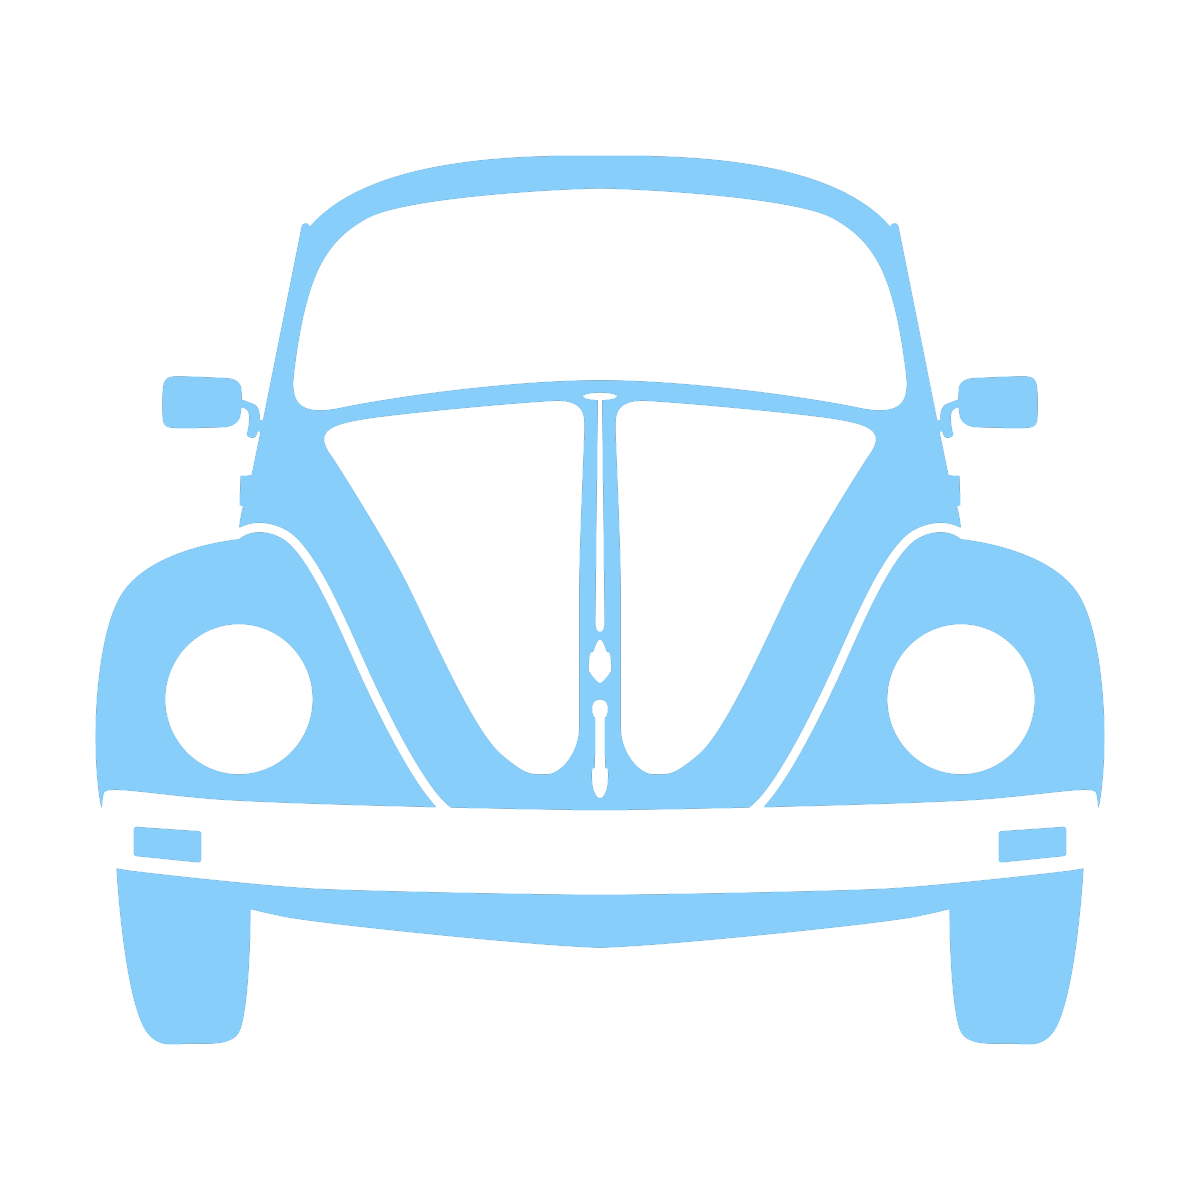
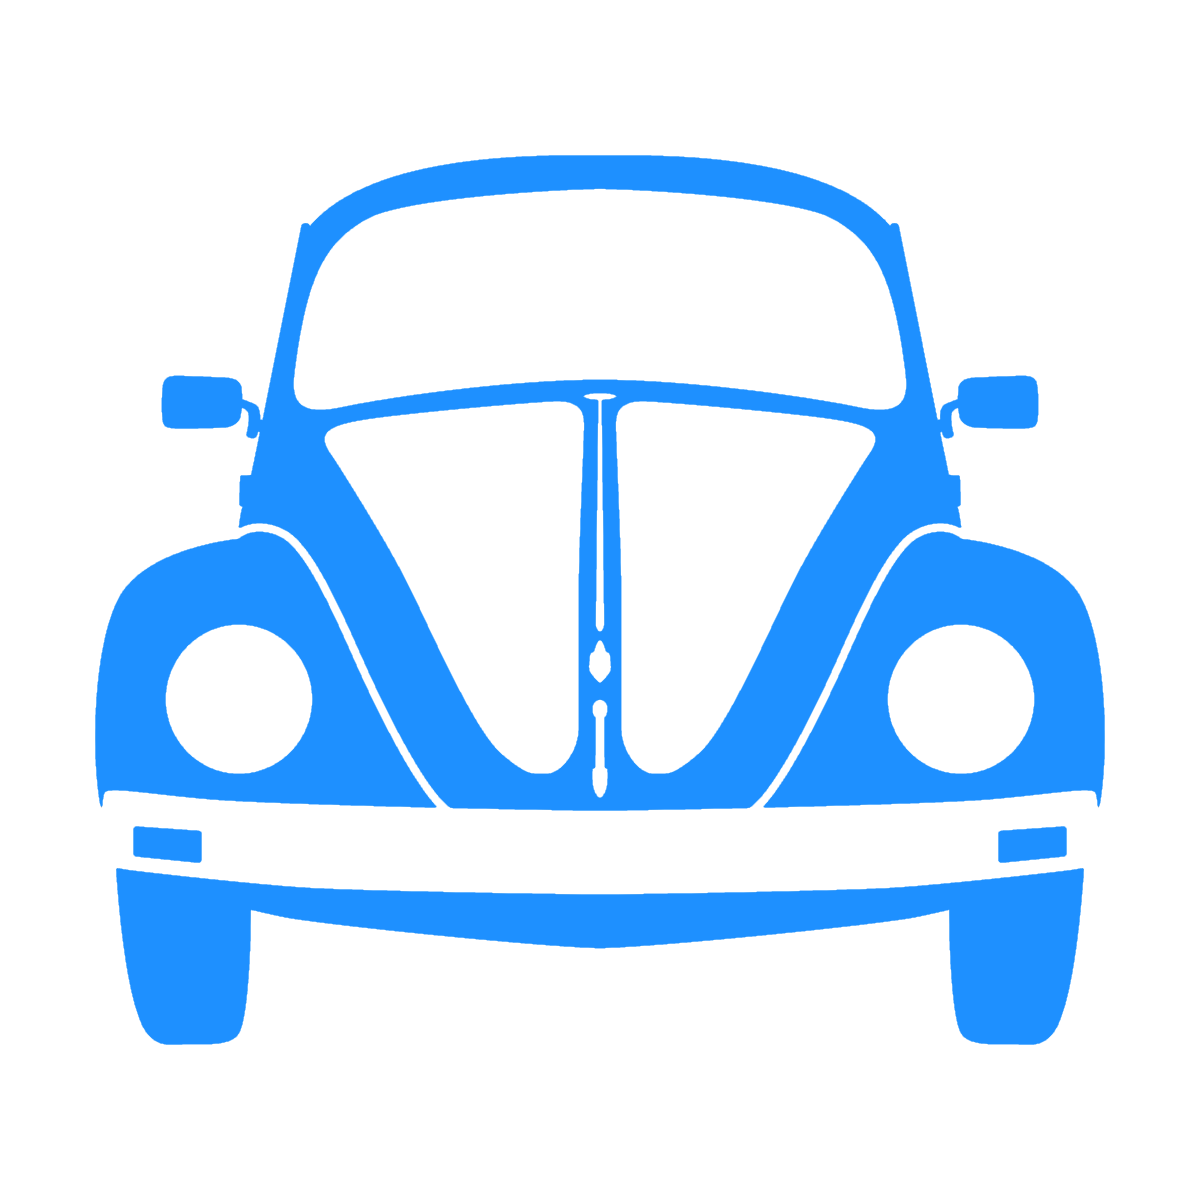
alteracao de cor

Changed region(s): [[0.0617, 0.1233, 0.925, 0.8942]]

diff --git a/index.html b/index.html
@@ -15,11 +15,11 @@
 <body>
   <header>
     <div id="title">
-      <div>
-        <h1>Chik</h1>
-        <h1>seguros</h1>
-      </div>
       <img id="img-logo" src="components/images/Volkswagen-Fusca-PNG-Free-Download.png" alt="Chik seguros">
+      <div>
+        <h1>Chik seguros</h1>
+      </div>
+      
     </div>
 
     <ul>
@@ -32,7 +32,7 @@
   </header>
   <main>
     <article>
-      <p>Possuimos registros nas seguintes seguradoras</p>
+      <p>Seguradoras</p>
       <div id="div-img-seguradoras">
         <ul>
[1 lines of base64/hex data omitted]

diff --git a/styles/style.css b/styles/style.css
@@ -1,7 +1,9 @@
+@import url('https://fonts.googleapis.com/css2?family=Roboto&display=swap');
+
 body{
     background-color: whitesmoke;
-    color: #87CEFA;
-    font-family: 'Courier New', Courier, monospace;
+    color: #1E90FF;
+    font-family: 'Roboto', sans-serif;
     max-width: 1200px;
     margin: 0 auto;
     padding: 15px;
@@ -24,7 +26,7 @@ header{
 }
 
 #img-logo{
-    width: 100px;
+    width: 85px;
     display: inline-block;
     vertical-align: bottom;
 }
@@ -35,7 +37,7 @@ li{
 }
 
 a{
-    color: #87CEFA;
+    color: #1E90FF;
 }
 
 a:hover{
@@ -44,13 +46,13 @@ a:hover{
 }
 
 #inscreva-se-btn{
-    border: 2px solid #87CEFA;
+    border: 2px solid #1E90FF;
     padding: 10px;
     border-radius: 15px;
 }
 
 #inscreva-se-btn:hover{
-    background-color: #87CEFA;
+    background-color: #1E90FF;
     color: white;
 }
 
@@ -68,17 +70,17 @@ main{
 h2{
     font-size: 56px;
     line-height: 10px;
-    font-family: 'Courier New', Courier, monospace;
+    font-family: 'Roboto', sans-serif;
 }
 
 span{
-    color: #87CEFA;
+    color: #1E90FF;
 }
 
 p{
     line-height: 20px;
     max-width: 500px;
-    font-family: 'Lucida Sans', 'Lucida Sans Regular', 'Lucida Grande', 'Lucida Sans Unicode', Geneva, Verdana, sans-serif;
+    font-family: 'Roboto', sans-serif;
 }
 
 form{
@@ -90,7 +92,7 @@ form{
 form [type="submit"]{
     height: 50px;
     width: 50%;
-    background-color:#87CEFA;
+    background-color:#1E90FF;
     color: white;
     font-weight: bold;
 }
@@ -103,7 +105,7 @@ input{
     height: 20px;
     padding: 15px;
     border-radius: 20px;
-    border: 1px solid #87CEFA;
+    border: 1px solid #1E90FF;
     font-size: 15px;
 }
 
